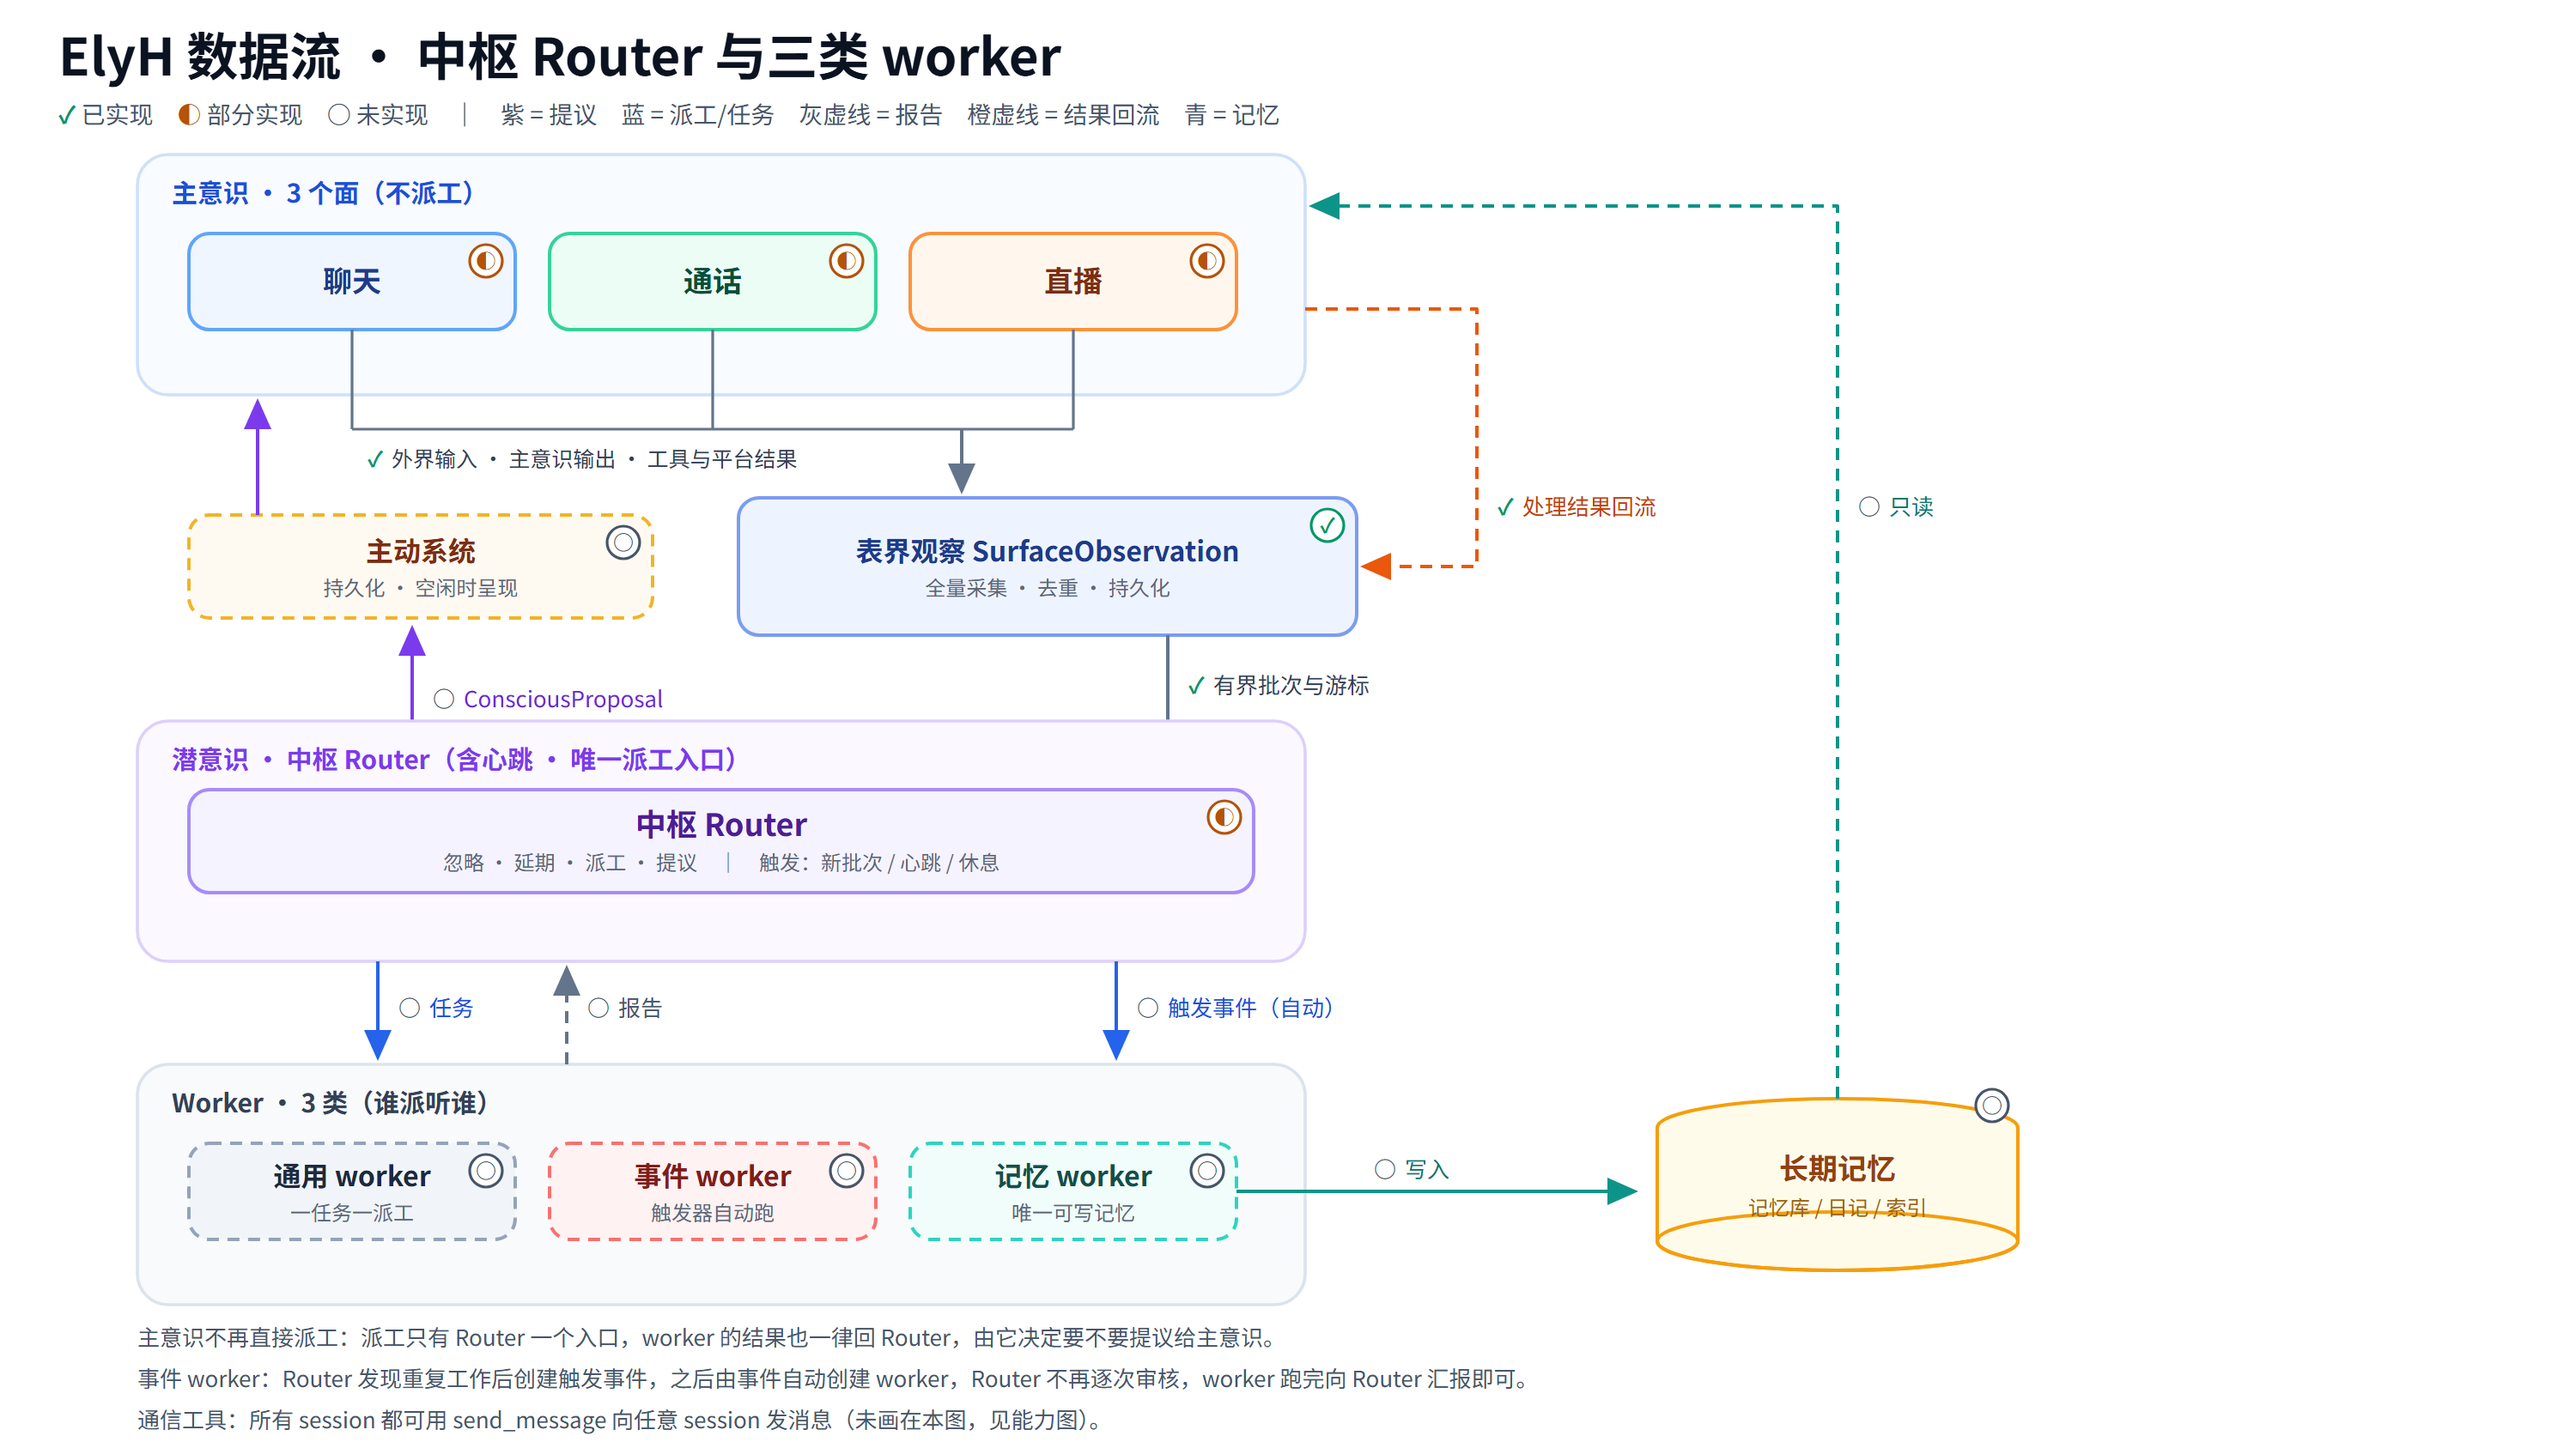
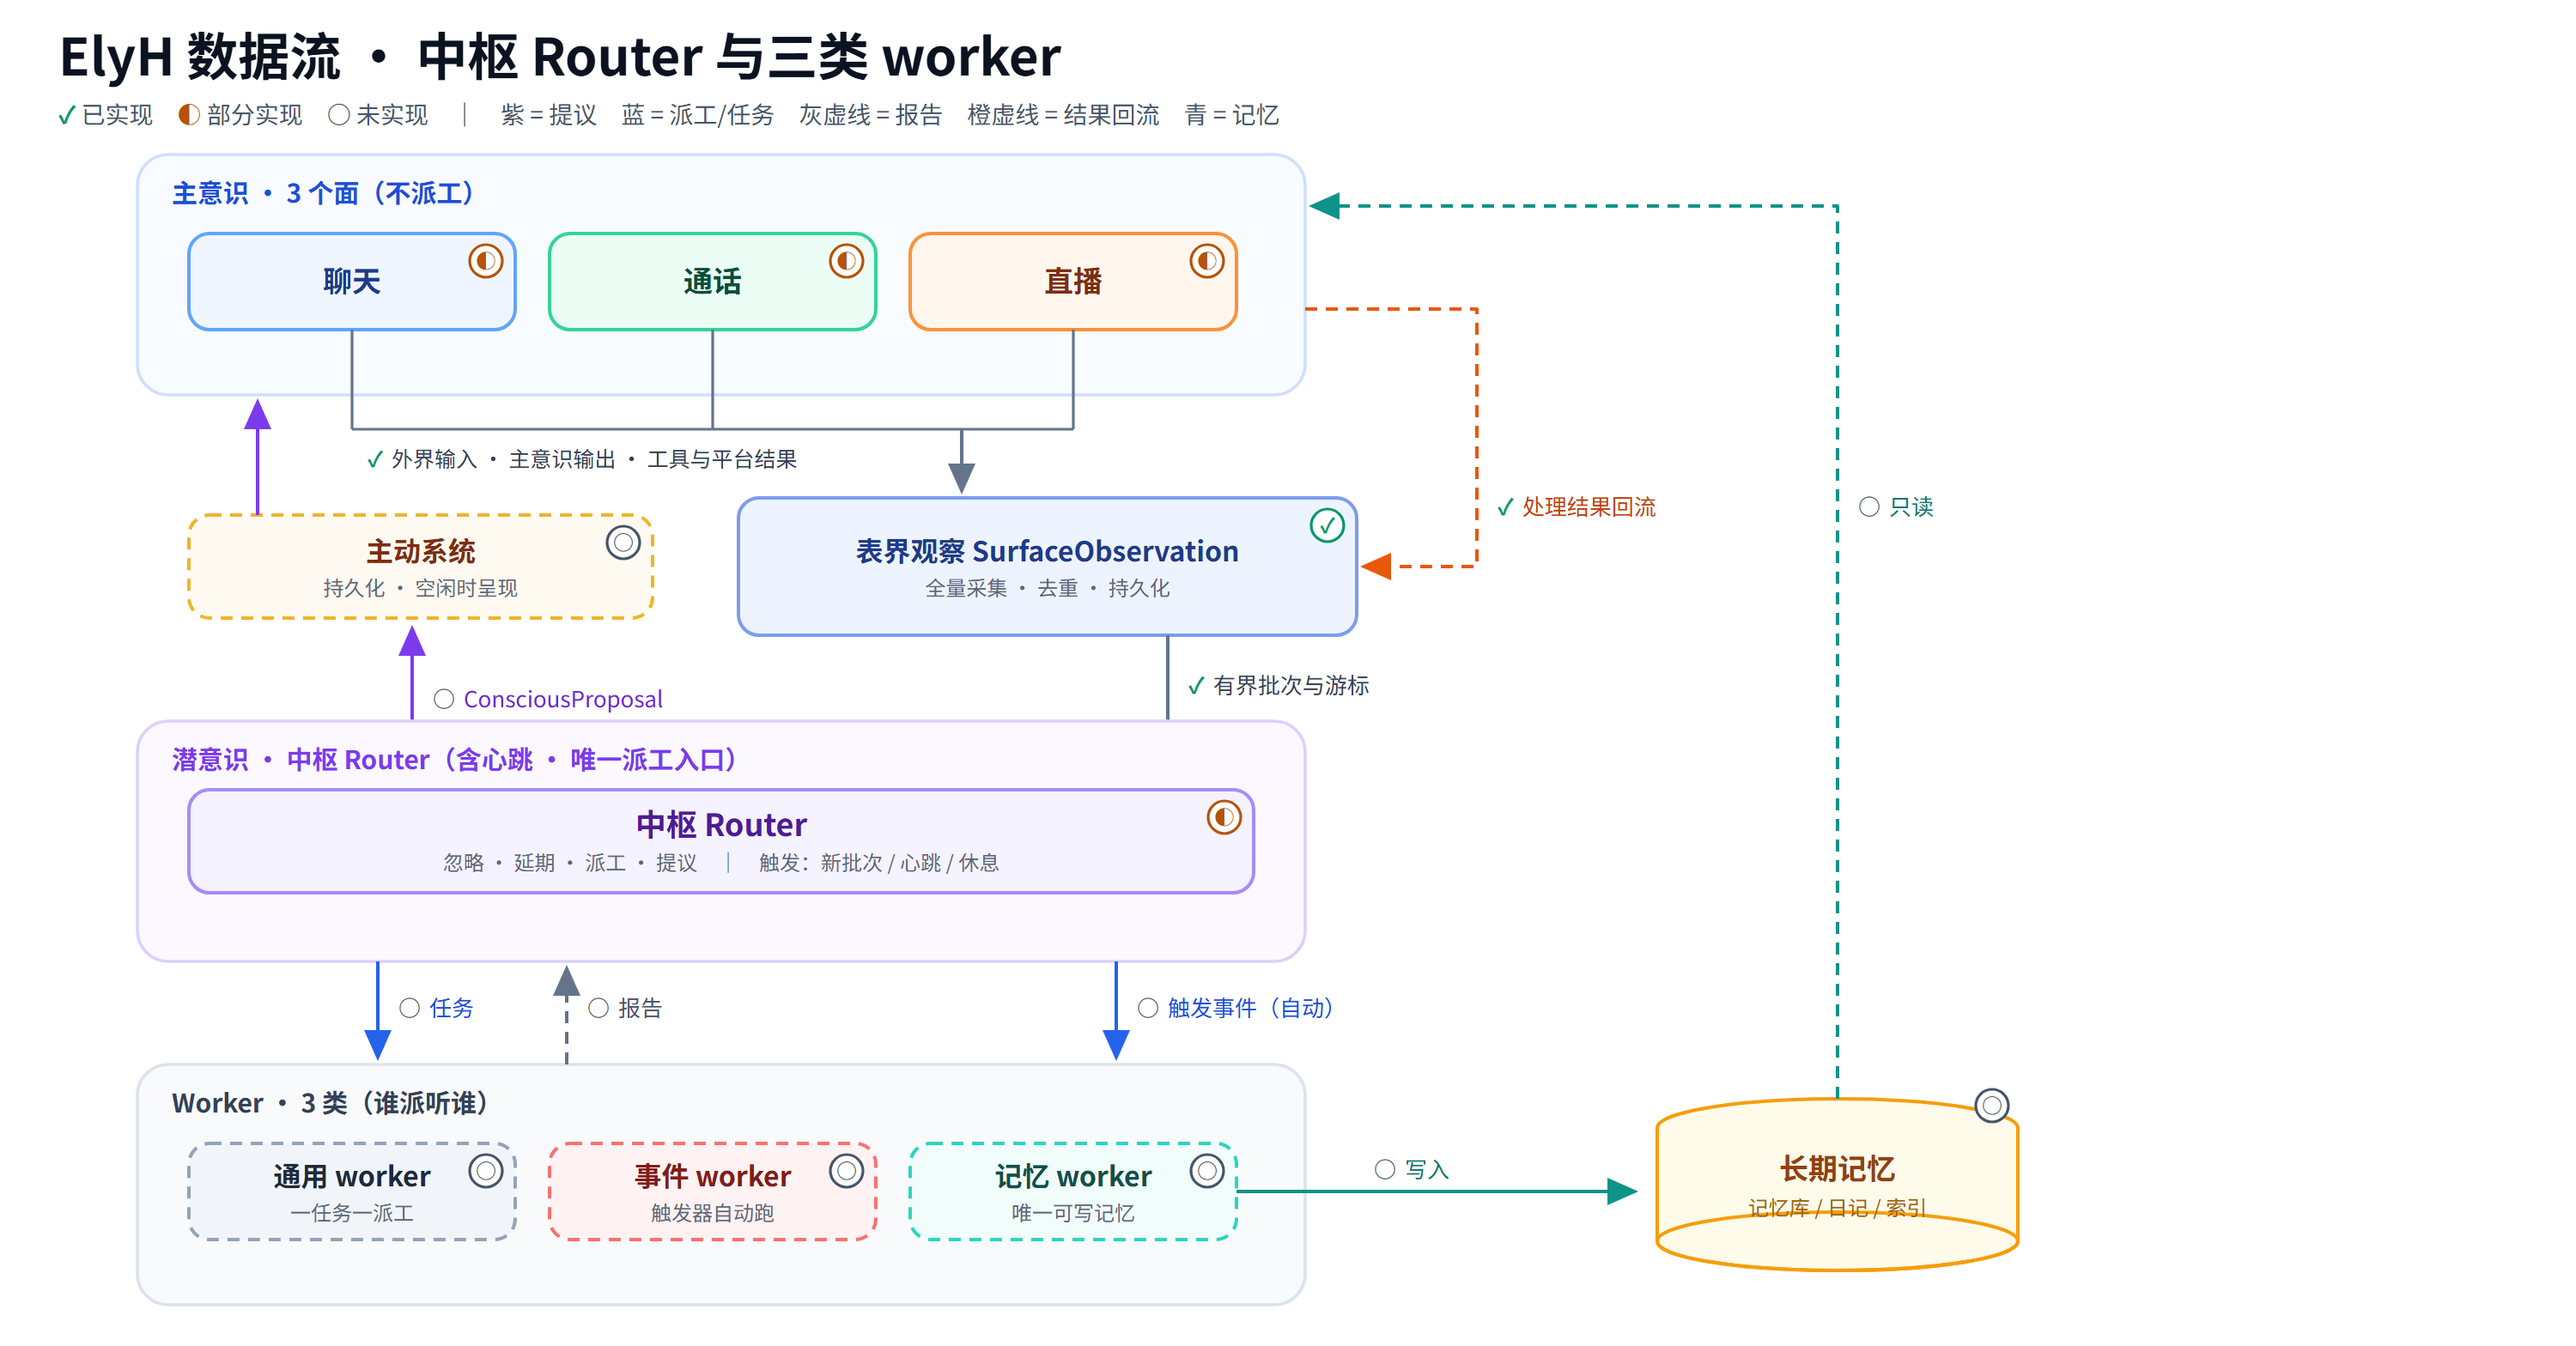
docs(architecture): keep the data-flow diagram text-free
底部三段说明文字删掉了——图上该读的是箭头和标签，规则写在 target-session-capabilities.zh.md 里。

diff --git a/docs/architecture/elyh-dataflow.html b/docs/architecture/elyh-dataflow.html
@@ -1,4 +1,4 @@
-<!doctype html><html lang="zh-CN"><head><meta charset="utf-8"><style>html,body{margin:0;padding:0;background:#fff}svg{display:block}</style></head><body><svg xmlns="http://www.w3.org/2000/svg" width="1500" height="840" viewBox="0 0 1500 840">
+<!doctype html><html lang="zh-CN"><head><meta charset="utf-8"><style>html,body{margin:0;padding:0;background:#fff}svg{display:block}</style></head><body><svg xmlns="http://www.w3.org/2000/svg" width="1500" height="784" viewBox="0 0 1500 784">
 <defs>
 <marker id="ap" markerWidth="10" markerHeight="10" refX="8" refY="5" orient="auto"><path d="M0,1 L9,5 L0,9 z" fill="#7c3aed"/></marker>
 <marker id="ab" markerWidth="10" markerHeight="10" refX="8" refY="5" orient="auto"><path d="M0,1 L9,5 L0,9 z" fill="#2563eb"/></marker>
@@ -50,7 +50,4 @@
 <text x="800" y="686" font-size="13" fill="#0f766e"><tspan fill="#475569" font-weight="700">○</tspan><tspan dx="5">写入</tspan></text>
 <path d="M1070,640 L1070,120 L764,120" fill="none" stroke="#0d9488" stroke-width="2" stroke-dasharray="7 5" marker-end="url(#at)" stroke-linejoin="round"/>
 <text x="1082" y="300" font-size="13" fill="#0f766e"><tspan fill="#475569" font-weight="700">○</tspan><tspan dx="5">只读</tspan></text>
-<text x="80" y="784" font-size="13" fill="#475569">主意识不再直接派工：派工只有 Router 一个入口，worker 的结果也一律回 Router，由它决定要不要提议给主意识。</text>
-<text x="80" y="808" font-size="13" fill="#475569">事件 worker：Router 发现重复工作后创建触发事件，之后由事件自动创建 worker，Router 不再逐次审核，worker 跑完向 Router 汇报即可。</text>
-<text x="80" y="832" font-size="13" fill="#475569">通信工具：所有 session 都可用 send_message 向任意 session 发消息（未画在本图，见能力图）。</text>
 </svg></body></html>
